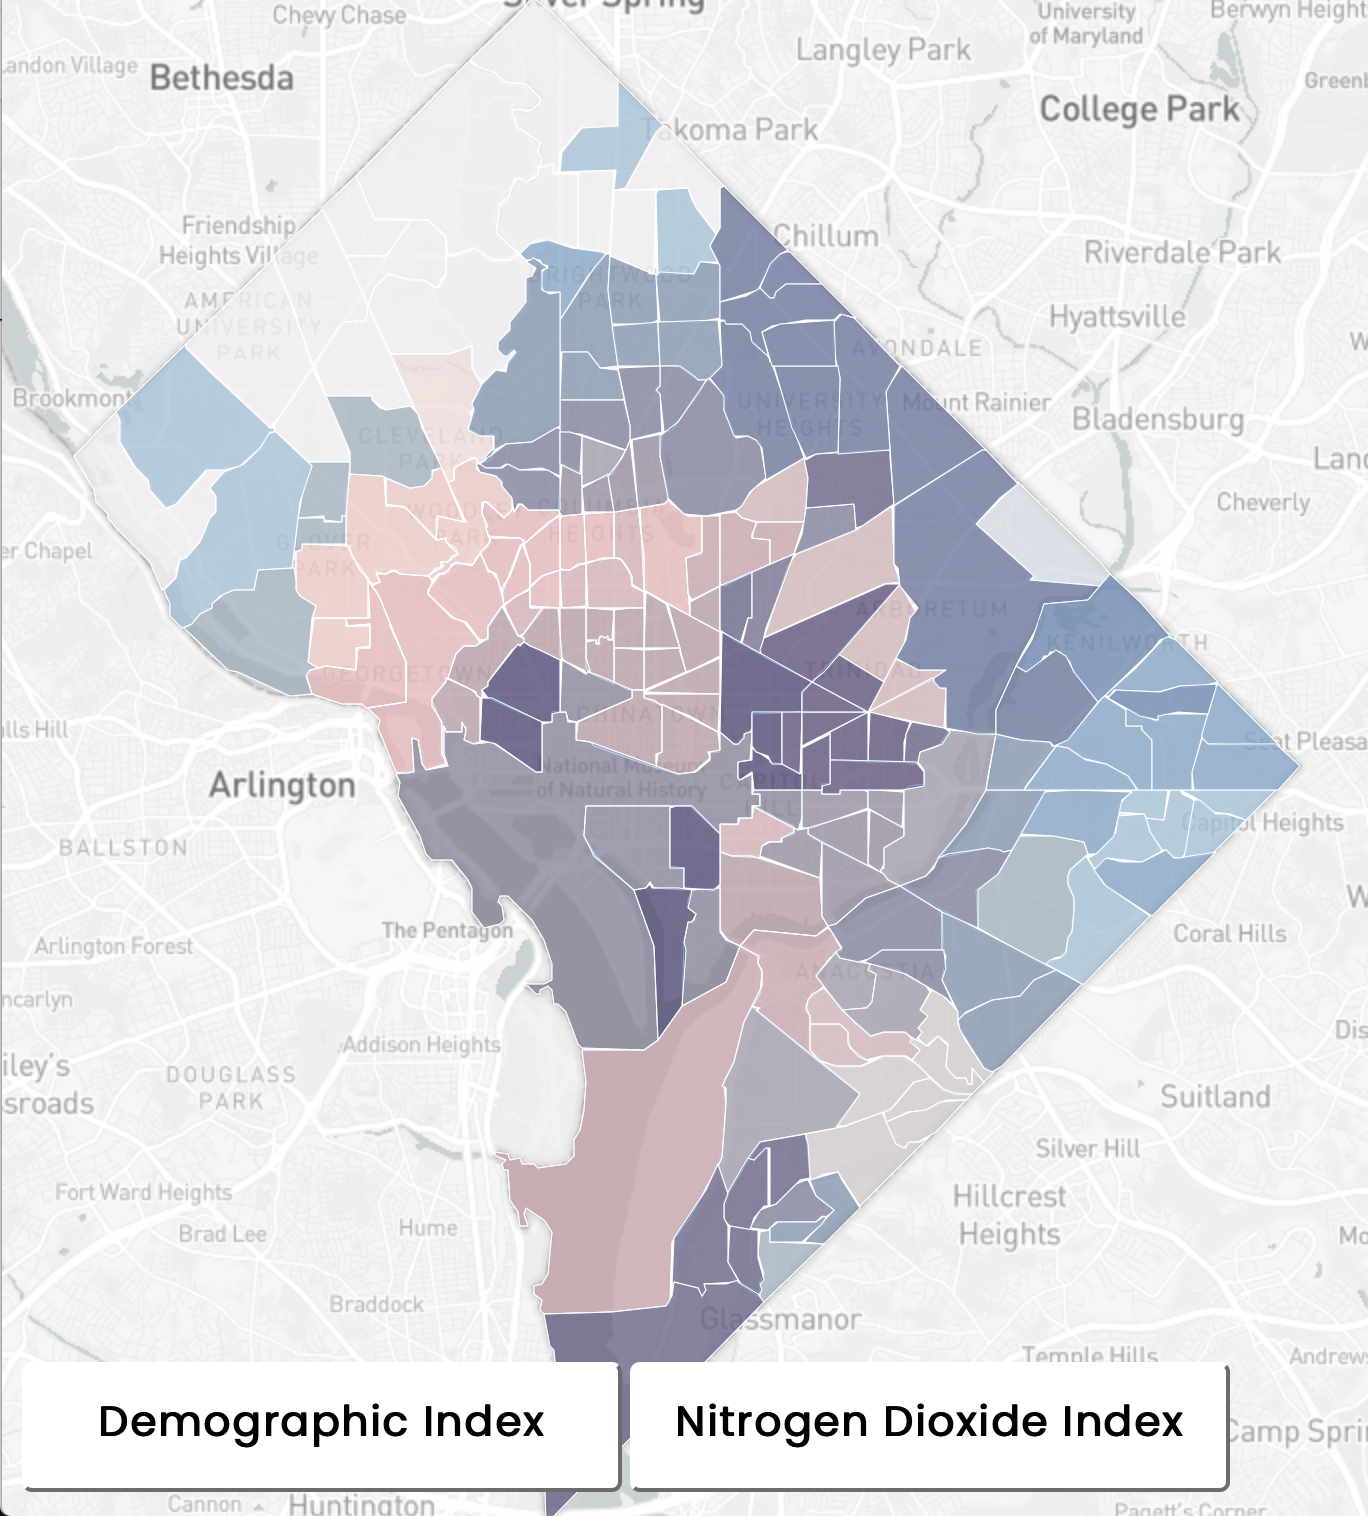
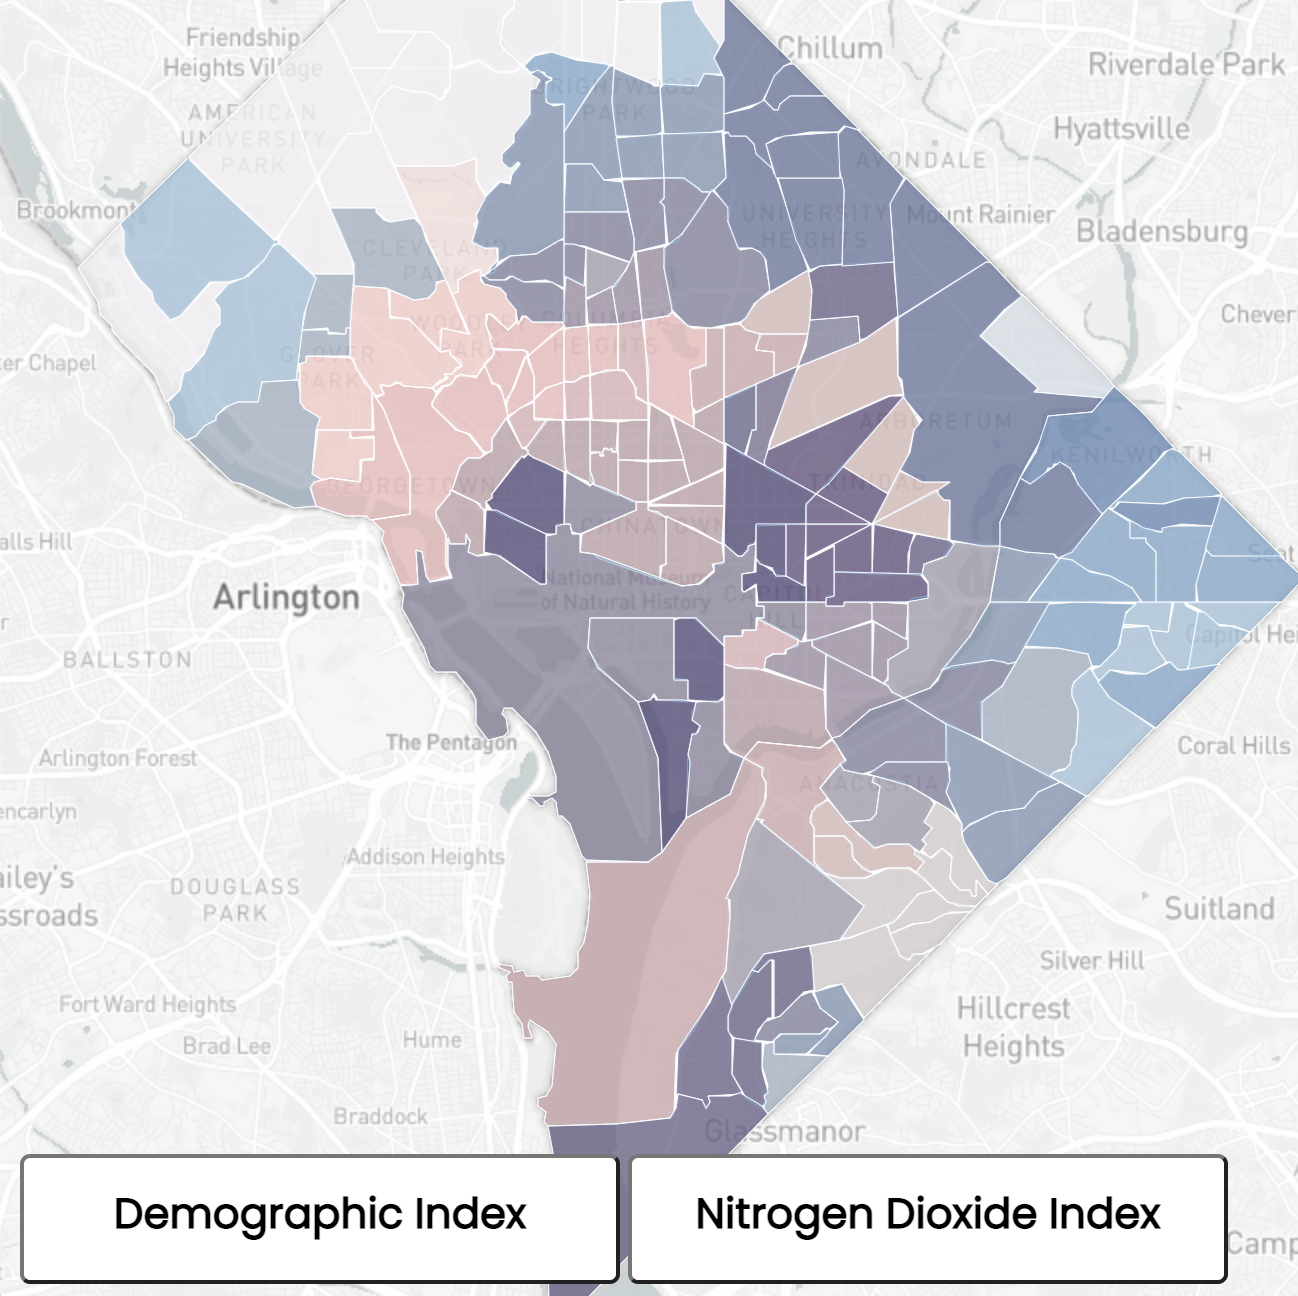
Complete no2g.html

diff --git a/no2g.html b/no2g.html
@@ -1,0 +1,242 @@
+<!DOCTYPE html>
+<html>
+
+  <head>
+
+    <meta charset="utf-8">
+    <title>Side by Side</title>
+    <meta name="viewport" content="initial-scale=1,maximum-scale=1,user-scalable=no">
+
+    <link href="https://api.mapbox.com/mapbox-gl-js/v2.3.0/mapbox-gl.css" rel="stylesheet">
+    <script src="https://api.mapbox.com/mapbox-gl-js/v2.3.0/mapbox-gl.js"></script>
+    <link rel="preconnect" href="https://fonts.gstatic.com">
+    <link href="https://fonts.googleapis.com/css2?family=Poppins&display=swap" rel="stylesheet">
+
+    <style>
+      body { margin: 0; padding: 0; }
+      #map { position: absolute; top: 0; bottom: 0; width: 100%; }
+    </style>
+
+  </head>
+  <body>
+    <style>
+      body {
+        overflow: hidden;
+      }
+
+      body * {
+        -webkit-touch-callout: none;
+        -webkit-user-select: none;
+        -moz-user-select: none;
+        -ms-user-select: none;
+        user-select: none;
+      }
+
+      .map {
+        position: absolute;
+        top: 0;
+        bottom: 0;
+        width: 100%;
+      }
+
+    /*h2,
+      h3 {
+        margin: 10px;
+        font-size: 1.2em;
+      }*/
+      h2 {
+        text-align: center;
+        line-height: 30px;
+      }
+      h5 {
+        text-align: center;
+        line-height: 5px;
+      }
+      p {
+        font-size: 0.85em;
+        margin: 10px;
+        text-align: left;
+      }
+      /*p {
+        font-size: 0.85em;
+        margin: 10px;
+        text-align: left;
+      }*/
+      .before-map-overlay {
+        position: absolute;
+        bottom: 0;
+        left: 0;
+        background: rgba(255, 255, 255, 0.8);
+        margin-left: 20px;
+        font-family: 'Poppins', Helvetica, sans-serif;
+        overflow: auto;
+        border-radius: 3px;
+      }
+      .after-map-overlay {
+        position: absolute;
+        bottom: 0;
+        right: 0;
+        font-family: 'Poppins', Helvetica, sans-serif;
+        background: rgba(255, 255, 255, 0.8);
+        margin-right: 20px;
+        overflow: auto;
+        border-radius: 3px;
+      }
+
+      #beforeLegend {
+        padding: 10px;
+        box-shadow: 0 1px 2px rgba(0, 0, 0, 0.1);
+        line-height: 18px;
+        height: 270px;
+        margin-bottom: 40px;
+        width: 480px;
+      }
+      #afterLegend {
+        padding: 10px;
+        box-shadow: 0 1px 2px rgba(0, 0, 0, 0.1);
+        line-height: 18px;
+        height: 270px;
+        margin-bottom: 40px;
+        width: 480px;
+      }
+      .legend-key {
+        display: inline-block;
+        border-radius: 20%;
+        width: 20px;
+        height: 20px;
+        margin-right: 5px;
+        opacity: 0.8;
+      }
+
+    </style>
+
+    <script src="https://api.mapbox.com/mapbox-gl-js/plugins/mapbox-gl-compare/v0.4.0/mapbox-gl-compare.js"></script>
+
+    <link rel="stylesheet" href="https://api.mapbox.com/mapbox-gl-js/plugins/mapbox-gl-compare/v0.4.0/mapbox-gl-compare.css" type="text/css">
+
+    <div id="comparison-container">
+      <div id="before" class="map"></div>
+      <div id="after" class="map"></div>
+    </div>
+
+    <div class="before-map-overlay" id="beforeLegend"></div>
+    <div class="after-map-overlay" id="afterLegend"></div>
+
+    <script>
+
+      mapboxgl.accessToken = 'pk.eyJ1Ijoia2F0ZW1hcCIsImEiOiJja3A0NWV0ZTkwNjBtMm5vdWxzcXR6dWxjIn0.7rYO_pPmtvwuWUb0cG3QXQ';
+
+      var beforeMap = new mapboxgl.Map({
+        container: 'before',
+        style: 'mapbox://styles/katemap/ckpsooehx0axz17nxdl60bnjq', //mapbox://styles/mapbox/light-v10
+        center: [-77.0369, 38.8950],
+        zoom: 11
+      });
+
+      var afterMap = new mapboxgl.Map({
+        container: 'after',
+        style: 'mapbox://styles/katemap/ckpspb66e12cp18r2ywu1sn7t', //mapbox://styles/mapbox/dark-v10
+        center: [-77.0369, 38.8950],
+        zoom: 11
+      });
+
+        // A selector or reference to HTML element
+      var container = '#comparison-container';
+
+      var map = new mapboxgl.Compare(beforeMap, afterMap, container, {
+        // Set this to enable comparing two maps by mouse movement:
+        // mousemove: true
+      });
+
+      afterMap.addControl(new mapboxgl.NavigationControl());
+      beforeMap.addControl(new mapboxgl.NavigationControl());
+
+      //additional segment-------
+
+      // define layer names
+      var layers = [
+        '0',
+        '12',
+        '24',
+        '37',
+        '49',
+        '74',
+        '99'
+      ];
+      var colors = [
+        '#EFF3FF',
+        '#C6DBEF',
+        '#9ECAE1',
+        '#6BAED6',
+        '#4292C6',
+        '#2171B5',
+        '#084594'
+      ];
+
+
+      var item = document.createElement('div');
+      var value = document.createElement('span');
+      value.innerHTML = "<h2>Socio-demographic Vulnerability</br></h2><h5>Expressed as a percentile</h5>";
+      item.appendChild(value);
+      beforeLegend.appendChild(item);
+      //create legend
+      for (i = layers.length-1; i > -1; i--) {
+        var layer = layers[i];
+        var color = colors[i];
+        var item = document.createElement('div');
+        var key = document.createElement('span');
+        key.className = 'legend-key';
+        key.style.backgroundColor = color;
+
+        var value = document.createElement('span');
+        value.innerHTML = layer;
+        item.appendChild(key);
+        item.appendChild(value);
+        beforeLegend.appendChild(item);
+      }
+
+      var afterLayers = [
+        '0',
+        '12',
+        '24',
+        '37',
+        '49',
+        '74',
+        '99'
+      ];
+      var afterColors = [
+        '#FFFFB2',
+        '#FED976',
+        '#FEB24C',
+        '#FD8D3C',
+        '#FC4E2A',
+        '#E31A1C',
+        '#B10026'
+      ];
+
+      var item = document.createElement('div');
+      var value = document.createElement('span');
+      value.innerHTML = "<h2>Nitrogen Dioxide Exposure</br></h2><h5>Expressed as a percentile</h5>";
+      item.appendChild(value);
+      afterLegend.appendChild(item);
+      //create legend
+      for (i = afterLayers.length-1; i > -1; i--) {
+        var layer = afterLayers[i];
+        var color = afterColors[i];
+        var item = document.createElement('div');
+        var key = document.createElement('span');
+        key.className = 'legend-key';
+        key.style.backgroundColor = color;
+
+        var value = document.createElement('span');
+        value.innerHTML = layer;
+        item.appendChild(key);
+        item.appendChild(value);
+        afterLegend.appendChild(item);
+      }
+
+    </script>
+
+  </body>
+
+</html>

diff --git a/no2b.html b/no2b.html
@@ -18,18 +18,7 @@
     <script src="/js/leaflet-0.7.2/leaflet.ajax.min.js"></script>
     <script src="https://k-mcc.github.io/no2WithDemIndex.js"></script>
     <style>
-      /*.info {
-          padding: 6px 8px;
-          font: 14px/16px Arial, Helvetica, sans-serif;
-          background: white;
-          background: rgba(255,255,255,0.8);
-          box-shadow: 0 0 15px rgba(0,0,0,0.2);
-          border-radius: 5px;
-      }
-      .info h4 {
-          margin: 0 0 5px;
-          color: #777;
-      }*/
+
       body {
         margin: 0;
         padding: 0;
@@ -41,6 +30,7 @@
         bottom: 0;
         width: 100%;
       }
+
     </style>
 
   </head>

diff --git a/no2f.html b/no2f.html
@@ -2,7 +2,7 @@
 <html>
   <head>
     <meta charset="utf-8">
-    <title>Toggle Layers</title>
+    <title>Tabs</title>
     <meta name="viewport" content="initial-scale=1,maximum-scale=1,user-scalable=no">
     <link rel="stylesheet" href="https://unpkg.com/leaflet@1.7.1/dist/leaflet.css"
    integrity="sha512-xodZBNTC5n17Xt2atTPuE1HxjVMSvLVW9ocqUKLsCC5CXdbqCmblAshOMAS6/keqq/sMZMZ19scR4PsZChSR7A=="

diff --git a/no2a.html b/no2a.html
@@ -42,6 +42,7 @@
           margin-right: 8px;
           opacity: 0.7;
       }
+
     </style>
   </head>
   <body>
